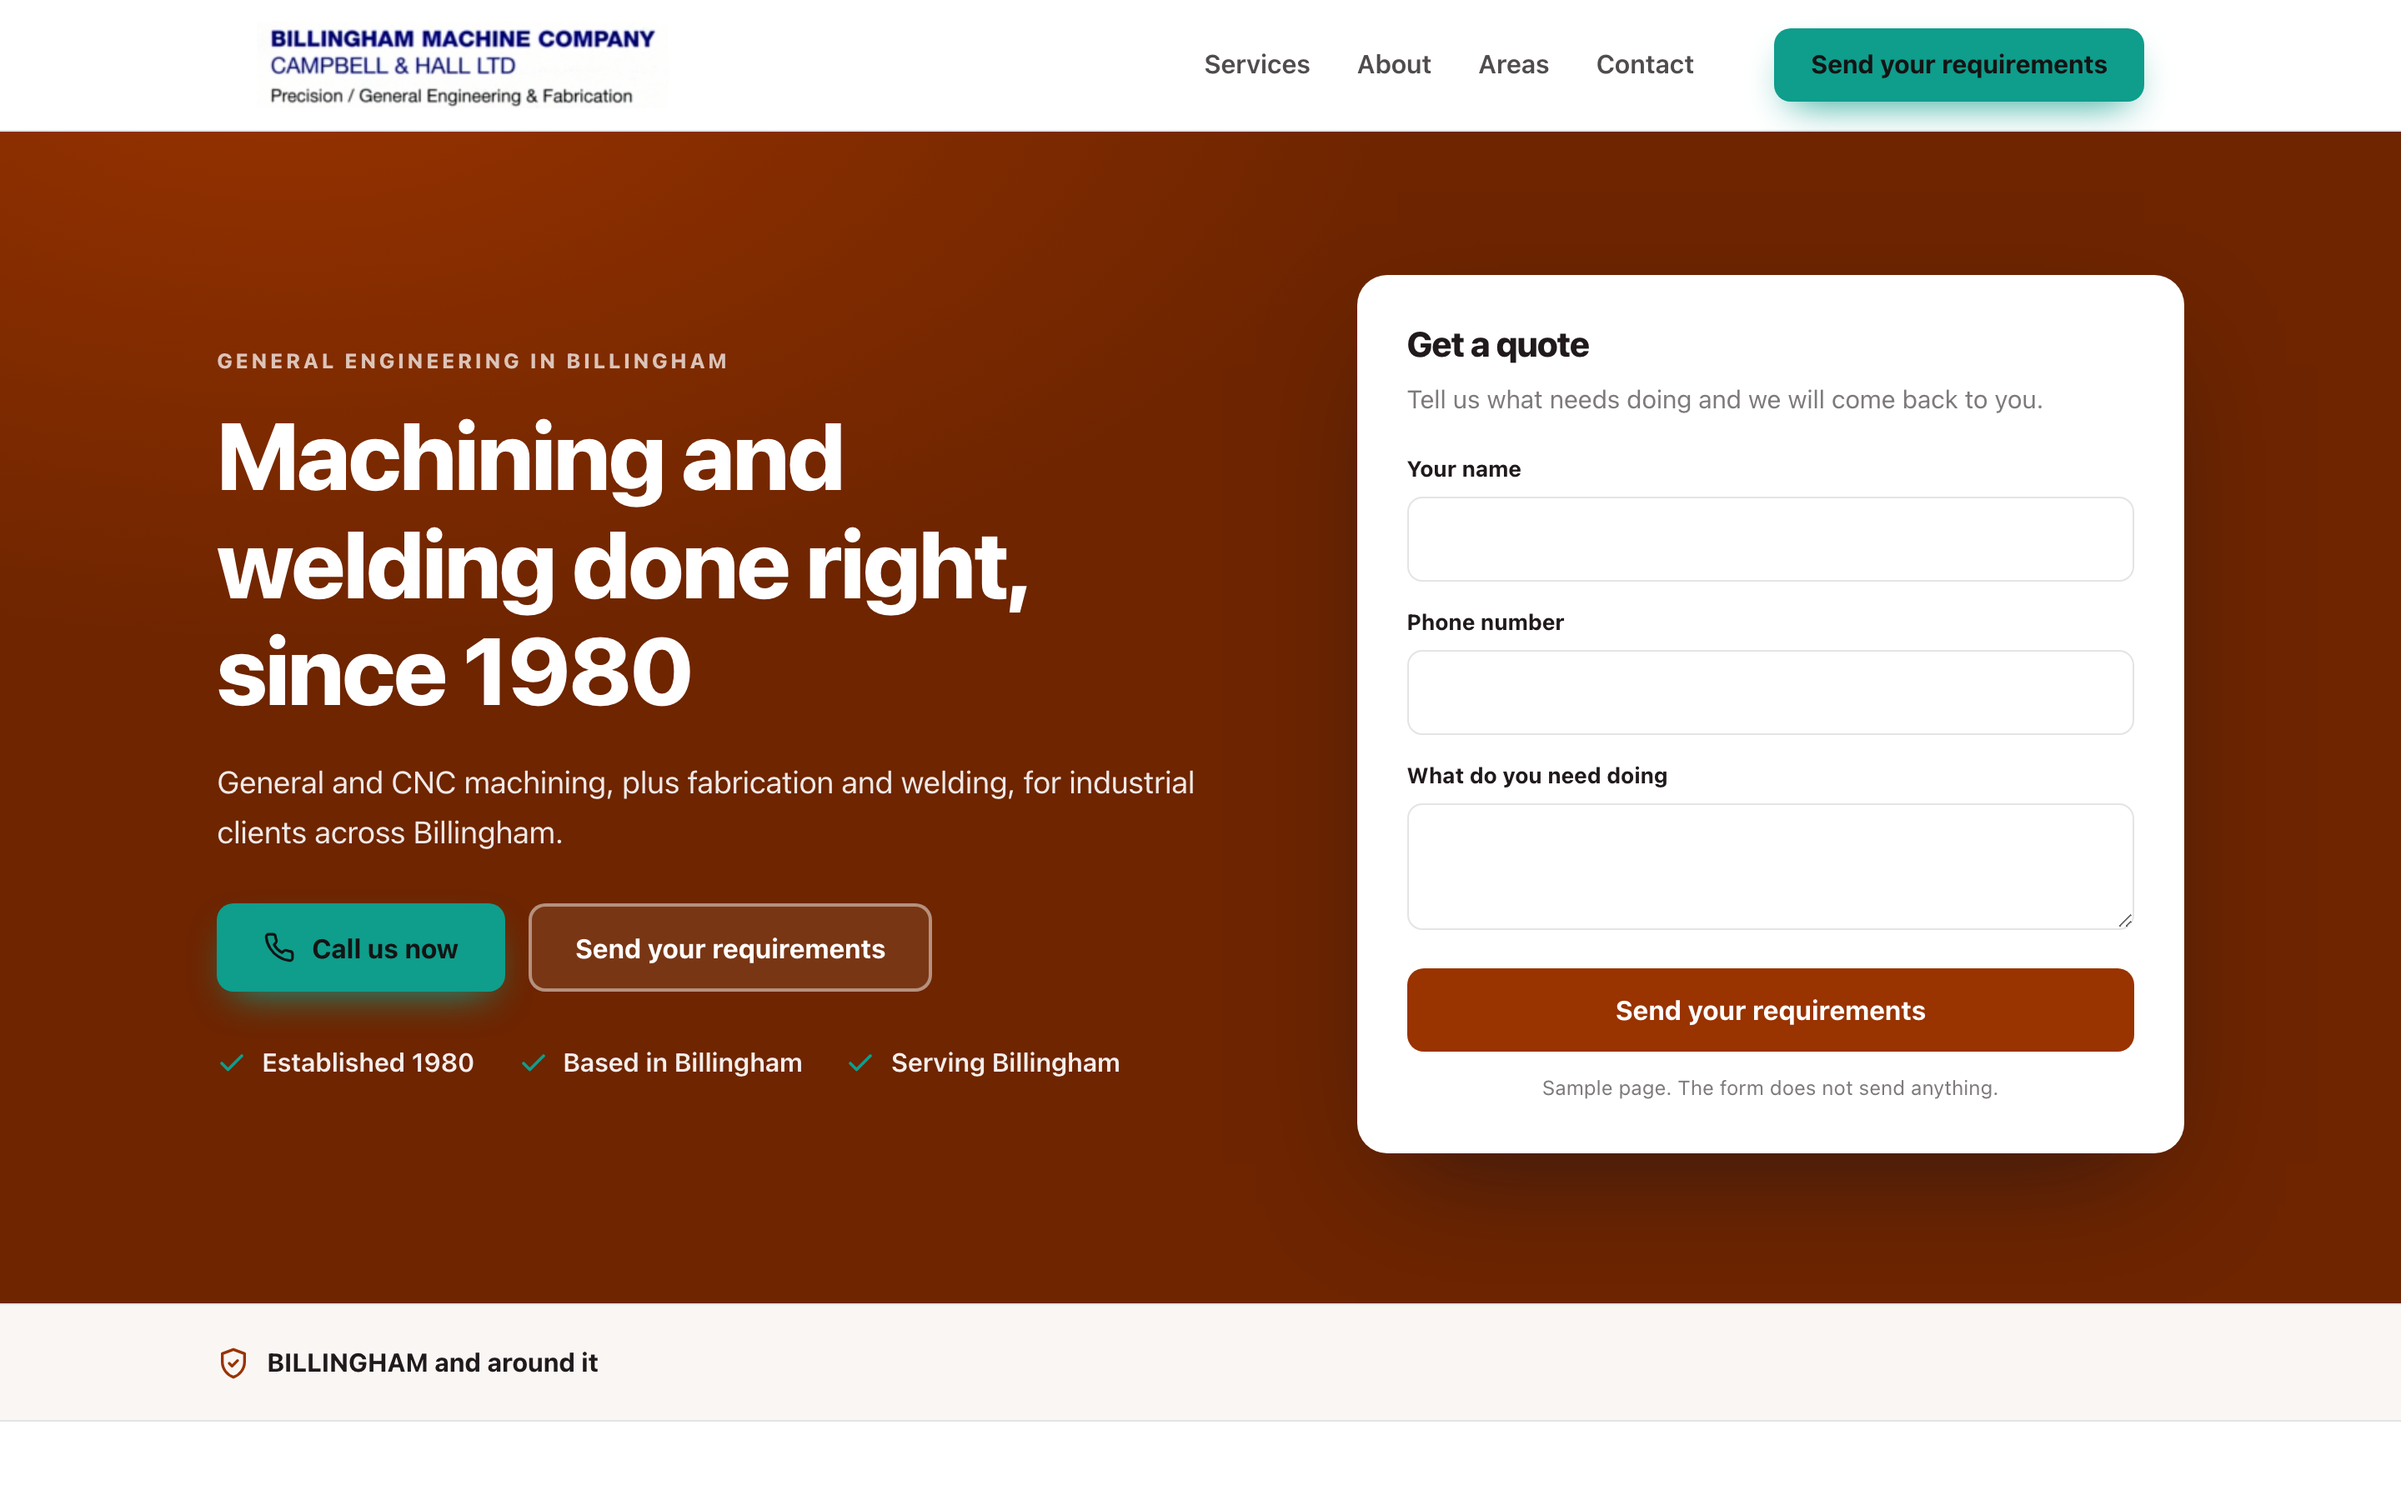
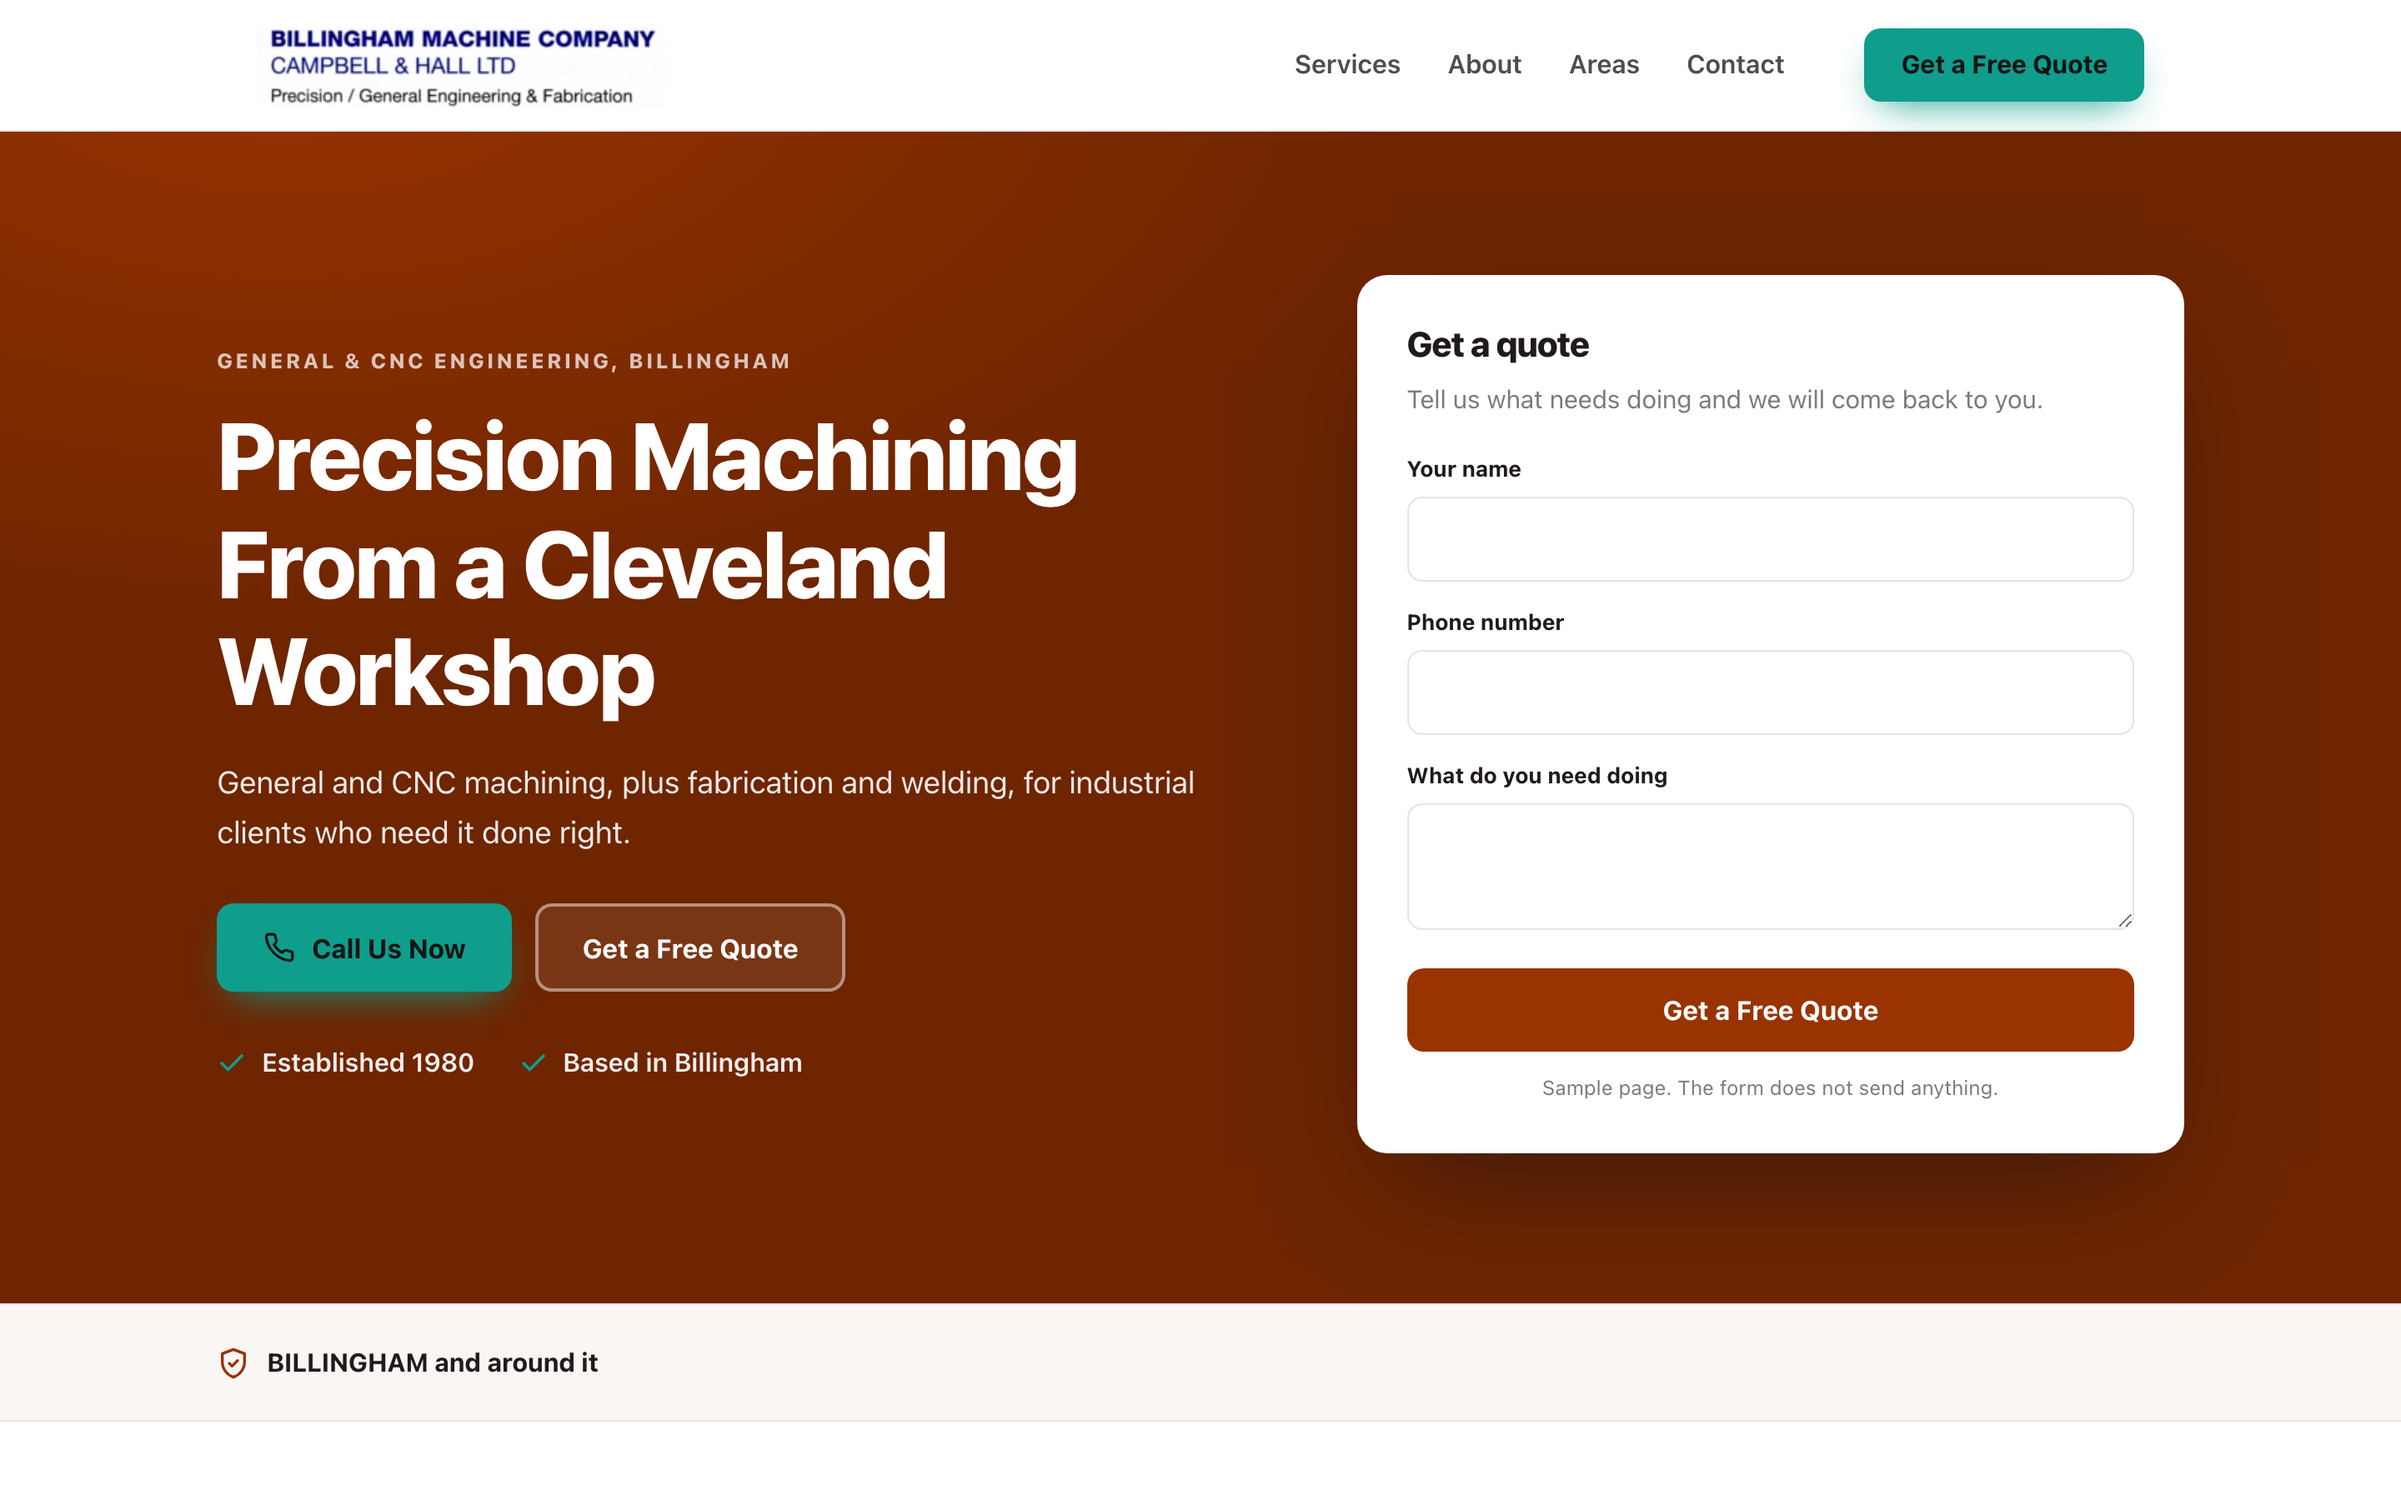
Sample homepage for Billingham Machine Company Ltd

diff --git a/docs/c980f9ea68/index.html b/docs/c980f9ea68/index.html
@@ -4,12 +4,12 @@
 <meta charset="utf-8">
 <meta name="viewport" content="width=device-width, initial-scale=1">
 <meta name="robots" content="noindex,nofollow">
-<title>Logo 1 sample homepage</title>
-<meta name="description" content="General and CNC machining, plus fabrication and welding, for industrial clients across Billingham.">
+<title>Billingham Machine Company Ltd sample homepage</title>
+<meta name="description" content="General and CNC machining, plus fabrication and welding, for industrial clients who need it done right.">
 <link rel="canonical" href="https://markygff.github.io/aso-mockups/c980f9ea68/">
 <meta property="og:type" content="website">
-<meta property="og:title" content="Logo 1 sample homepage">
-<meta property="og:description" content="General and CNC machining, plus fabrication and welding, for industrial clients across Billingham.">
+<meta property="og:title" content="Billingham Machine Company Ltd sample homepage">
+<meta property="og:description" content="General and CNC machining, plus fabrication and welding, for industrial clients who need it done right.">
 <meta property="og:url" content="https://markygff.github.io/aso-mockups/c980f9ea68/">
 <style>
 :root{
@@ -119,12 +119,12 @@ p{margin:0}
 <header class="header">
   <div class="wrap header-in">
     <div class="brand">
-<img src="http://www.billinghammachine.com/template/images/logo2.jpg" alt="Logo 1 logo">    </div>
+<img src="http://www.billinghammachine.com/template/images/logo2.jpg" alt="Billingham Machine Company Ltd logo">    </div>
     <nav class="nav">
       <span>Services</span><span>About</span><span>Areas</span><span>Contact</span>
     </nav>
     <div class="header-cta">
-      <span class="btn btn-accent">Send your requirements</span>
+      <span class="btn btn-accent">Get a Free Quote</span>
     </div>
   </div>
 </header>
@@ -133,15 +133,15 @@ p{margin:0}
   <div class="hero-plain"></div>
   <div class="wrap hero-in">
     <div>
-      <p class="eyebrow">General engineering in Billingham</p>
-      <h1>Machining and welding done right, since 1980</h1>
-      <p class="hero-sub">General and CNC machining, plus fabrication and welding, for industrial clients across Billingham.</p>
+      <p class="eyebrow">General &amp; CNC Engineering, Billingham</p>
+      <h1>Precision Machining From a Cleveland Workshop</h1>
+      <p class="hero-sub">General and CNC machining, plus fabrication and welding, for industrial clients who need it done right.</p>
       <div class="hero-actions">
-        <span class="btn btn-accent"><svg viewBox="0 0 24 24" fill="none" stroke="currentColor" stroke-width="2" stroke-linecap="round" stroke-linejoin="round" aria-hidden="true"><path d="M22 16.9v3a2 2 0 0 1-2.2 2 19.8 19.8 0 0 1-8.6-3.1 19.5 19.5 0 0 1-6-6 19.8 19.8 0 0 1-3.1-8.7A2 2 0 0 1 4.1 2h3a2 2 0 0 1 2 1.7c.1 1 .4 1.9.7 2.8a2 2 0 0 1-.5 2.1L8.1 9.9a16 16 0 0 0 6 6l1.3-1.2a2 2 0 0 1 2.1-.5c.9.3 1.8.6 2.8.7a2 2 0 0 1 1.7 2z"/></svg>Call us now</span>
-        <span class="btn btn-ghost">Send your requirements</span>
+        <span class="btn btn-accent"><svg viewBox="0 0 24 24" fill="none" stroke="currentColor" stroke-width="2" stroke-linecap="round" stroke-linejoin="round" aria-hidden="true"><path d="M22 16.9v3a2 2 0 0 1-2.2 2 19.8 19.8 0 0 1-8.6-3.1 19.5 19.5 0 0 1-6-6 19.8 19.8 0 0 1-3.1-8.7A2 2 0 0 1 4.1 2h3a2 2 0 0 1 2 1.7c.1 1 .4 1.9.7 2.8a2 2 0 0 1-.5 2.1L8.1 9.9a16 16 0 0 0 6 6l1.3-1.2a2 2 0 0 1 2.1-.5c.9.3 1.8.6 2.8.7a2 2 0 0 1 1.7 2z"/></svg>Call Us Now</span>
+        <span class="btn btn-ghost">Get a Free Quote</span>
       </div>
       <ul class="hero-bullets">
-<li><svg viewBox="0 0 24 24" fill="none" stroke="currentColor" stroke-width="2.4" stroke-linecap="round" stroke-linejoin="round" aria-hidden="true"><path d="M20 6 9 17l-5-5"/></svg><span>Established 1980</span></li><li><svg viewBox="0 0 24 24" fill="none" stroke="currentColor" stroke-width="2.4" stroke-linecap="round" stroke-linejoin="round" aria-hidden="true"><path d="M20 6 9 17l-5-5"/></svg><span>Based in Billingham</span></li><li><svg viewBox="0 0 24 24" fill="none" stroke="currentColor" stroke-width="2.4" stroke-linecap="round" stroke-linejoin="round" aria-hidden="true"><path d="M20 6 9 17l-5-5"/></svg><span>Serving Billingham</span></li>      </ul>
+<li><svg viewBox="0 0 24 24" fill="none" stroke="currentColor" stroke-width="2.4" stroke-linecap="round" stroke-linejoin="round" aria-hidden="true"><path d="M20 6 9 17l-5-5"/></svg><span>Established 1980</span></li><li><svg viewBox="0 0 24 24" fill="none" stroke="currentColor" stroke-width="2.4" stroke-linecap="round" stroke-linejoin="round" aria-hidden="true"><path d="M20 6 9 17l-5-5"/></svg><span>Based in Billingham</span></li>      </ul>
     </div>
     <div class="quote-card">
       <h3>Get a quote</h3>
@@ -149,7 +149,7 @@ p{margin:0}
       <div class="field"><label>Your name</label><input type="text" disabled></div>
       <div class="field"><label>Phone number</label><input type="tel" disabled></div>
       <div class="field"><label>What do you need doing</label><textarea disabled></textarea></div>
-      <span class="btn btn-primary">Send your requirements</span>
+      <span class="btn btn-primary">Get a Free Quote</span>
       <p class="sample-note">Sample page. The form does not send anything.</p>
     </div>
   </div>
@@ -165,24 +165,24 @@ p{margin:0}
   <div class="wrap">
     <div class="services-head">
       <p class="eyebrow">What we do</p>
-      <h2>Logo 1, BILLINGHAM</h2>
-      <p>General and CNC machining, plus fabrication and welding, for industrial clients across Billingham.</p>
+      <h2>Billingham Machine Company Ltd, BILLINGHAM</h2>
+      <p>General and CNC machining, plus fabrication and welding, for industrial clients who need it done right.</p>
     </div>
     <div class="grid">
       <article class="card">
         <div class="icon"><svg viewBox="0 0 24 24" fill="none" stroke="currentColor" stroke-width="2" stroke-linecap="round" stroke-linejoin="round" aria-hidden="true"><path d="M14.7 6.3a4 4 0 0 0 5.3 5.3l-8 8a3 3 0 0 1-4.2-4.2z"/><path d="m14.7 6.3 3-3"/></svg></div>
         <h3>General Machining</h3>
-        <p>Subcontract machining is a big part of what we do, day in day out.</p>
+        <p>Subcontract machining for a broad range of industrial clients.</p>
       </article>
       <article class="card">
         <div class="icon"><svg viewBox="0 0 24 24" fill="none" stroke="currentColor" stroke-width="2" stroke-linecap="round" stroke-linejoin="round" aria-hidden="true"><path d="M13 2 4 14h7l-1 8 9-12h-7z"/></svg></div>
         <h3>CNC Machining</h3>
-        <p>We take on the demanding CNC jobs and get them right.</p>
+        <p>CNC work for jobs that need tight tolerances done properly.</p>
       </article>
       <article class="card">
         <div class="icon"><svg viewBox="0 0 24 24" fill="none" stroke="currentColor" stroke-width="2" stroke-linecap="round" stroke-linejoin="round" aria-hidden="true"><path d="M3 10.5 12 3l9 7.5"/><path d="M5 9.5V21h14V9.5"/><path d="M10 21v-6h4v6"/></svg></div>
         <h3>Fabrication &amp; Welding</h3>
-        <p>Fabrication and welding work we&#39;re building on as we grow.</p>
+        <p>Fabrication and welding to support your project from start to finish.</p>
       </article>
     </div>
   </div>
@@ -190,7 +190,7 @@ p{margin:0}
 
 <footer class="footer">
   <div class="wrap footer-in">
-    <span>Sample built for Logo 1 from your public website. Not live. Tell us and we delete it.</span>
+    <span>Sample built for Billingham Machine Company Ltd from your public website. Not live. Tell us and we delete it.</span>
     <span>billinghammachine.com</span>
   </div>
 </footer>
